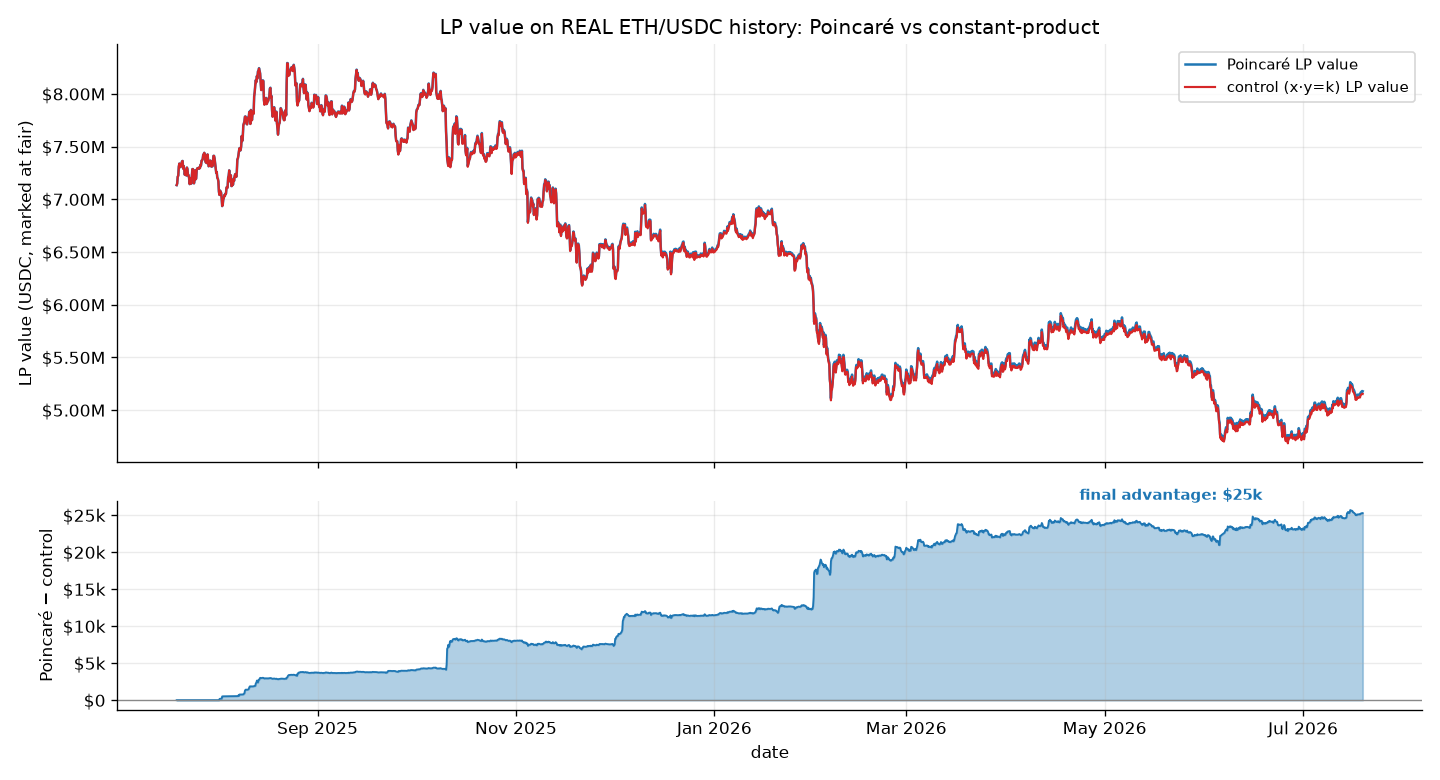
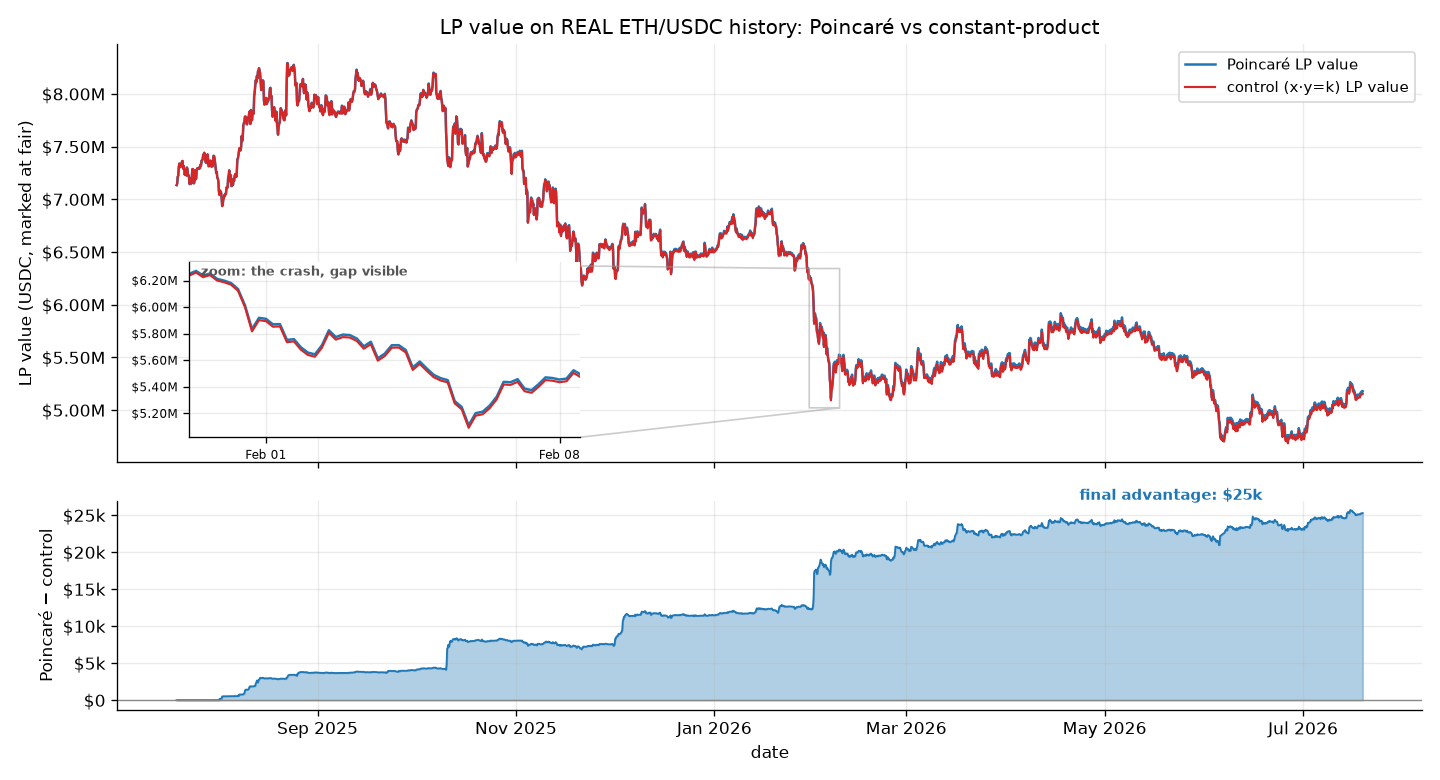
docs: zoom inset on the LP-value graph so the advantage is visible
At full scale the two LP-value lines sit ~0.4% apart and coincide; the
inset zooms the crash week where the gap opens, with the difference panel
still carrying the exact numbers.

diff --git a/analysis/simulation/plot_realdata.py b/analysis/simulation/plot_realdata.py
@@ -65,6 +65,27 @@ def fig_lpvalue(ts):
     ax.set_title("LP value on REAL ETH/USDC history: Poincaré vs constant-product")
     ax.legend(loc="upper right", fontsize=9)
     diff = ts.lp_on - ts.lp_off
+
+    # Zoom inset over the stretch where the advantage opens fastest (the crash):
+    # at full scale the two lines sit ~0.4% apart and coincide visually.
+    win = 48  # ~8 days of 4h candles
+    gains = (diff.shift(-win) - diff).fillna(0)
+    i0 = max(int(gains.values.argmax()) - 4, 0)
+    i1 = min(i0 + win + 8, len(ts) - 1)
+    axins = ax.inset_axes([0.055, 0.06, 0.30, 0.42])
+    axins.plot(ts.date, ts.lp_on, color=C_POIN, lw=1.5)
+    axins.plot(ts.date, ts.lp_off, color=C_CTRL, lw=1.3)
+    lo = min(ts.lp_on.iloc[i0:i1].min(), ts.lp_off.iloc[i0:i1].min())
+    hi = max(ts.lp_on.iloc[i0:i1].max(), ts.lp_off.iloc[i0:i1].max())
+    pad = (hi - lo) * 0.06
+    axins.set_xlim(ts.date.iloc[i0], ts.date.iloc[i1]); axins.set_ylim(lo - pad, hi + pad)
+    axins.tick_params(labelsize=7)
+    axins.yaxis.set_major_formatter(FuncFormatter(usd))
+    axins.xaxis.set_major_locator(mdates.AutoDateLocator(maxticks=3))
+    axins.xaxis.set_major_formatter(mdates.DateFormatter("%b %d"))
+    axins.text(0.03, 0.92, "zoom: the crash, gap visible", transform=axins.transAxes,
+               fontsize=8, fontweight="bold", color="#555")
+    ax.indicate_inset_zoom(axins, edgecolor="#999")
     ax2.fill_between(ts.date, 0, diff, color=C_POIN, alpha=0.35); ax2.plot(ts.date, diff, color=C_POIN, lw=1.1)
     ax2.axhline(0, color="#888", lw=0.8); ax2.set_ylabel("Poincaré − control")
     ax2.yaxis.set_major_formatter(FuncFormatter(usd)); ax2.set_xlabel("date")
